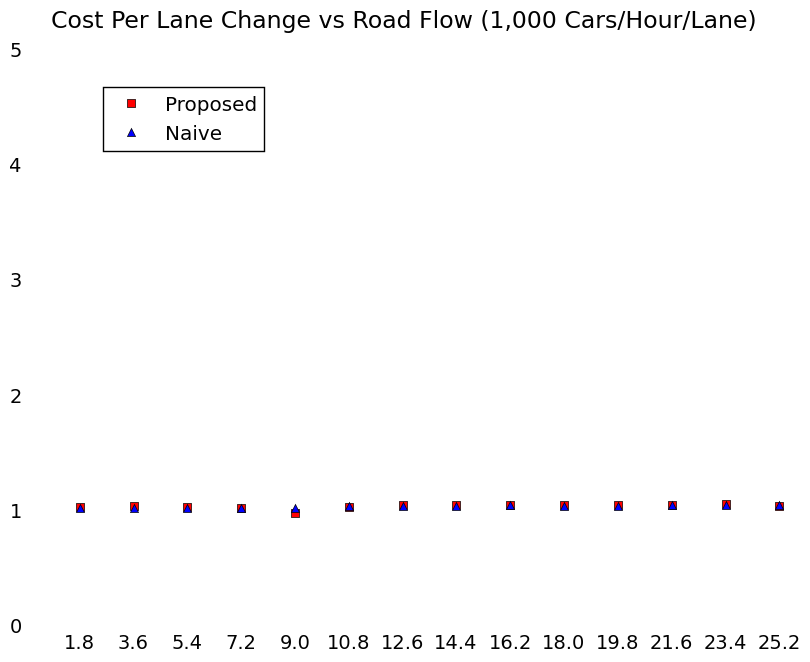
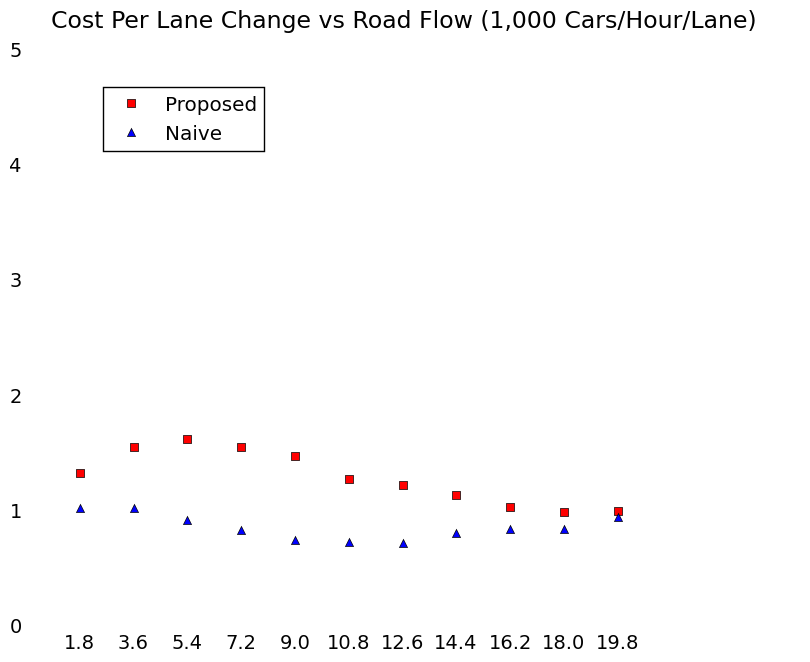
New data with fully random cars continuing. tests_far_linearCost.p is the 200 runs 0.5-5.5 data.

diff --git a/tests.py b/tests.py
@@ -8,13 +8,16 @@ from time import time
 from params import *
 
 
-def tests(myRoad):
+def noTime(myRoad):
     global stats
-    myRoad.baseCase = False
     params.turnTime = max([getTurnTime(vel) for vel in params.laneVels])
     stats.params = params
     stats.newTurn(params.turnTime)
     myRoad.updateRoad(params.turnTime)
+
+def tests(myRoad):
+    global stats
+    myRoad.baseCase = False
     when.When(myRoad)
     stats.carsRequestingLC[myRoad.turn] = len([car for car in myRoad.cars if car.position[1] != car.targetLane])
     how.How(myRoad)
@@ -41,10 +44,8 @@ def tests(myRoad):
    # print "Cars on road: " + str(len(myRoad.cars))
 
 def baseCaseTests(myRoad):
+    global stats
     myRoad.baseCase = True
-    stats.newTurn(params.turnTime)
-    stats.params = params
-    myRoad.updateRoad(params.turnTime)
     myRoad.cars = when.baseCaseWhen(myRoad.cars)
     stats.carsRequestingLC[myRoad.turn] = len([car for car in myRoad.cars if car.position[1] != car.targetLane])
     baseHow.baseCaseHow(myRoad)
@@ -109,11 +110,22 @@ def timer(f, *args):
     e = time()
     return e - s
 
+def oldTimeSim(f, numIters):
+    totalTime = 0
+    for i in range(numIters):
+        turn2 = timer(noTime, myRoad)
+        turn = timer(f, myRoad) + turn2
+        stats.turnTime[myRoad.turn] = turn
+        totalTime += turn
+        print str(turn) + " : " + str(totalTime)
+        print ''
+
 #maybe for final results have a "max road length" parameter to change and compare to find how well it scales. 
 #6km roads do X fast,  10km roads do X fast
 def timeSim(f ,numIters):
     totalTime = 0
     for i in range(numIters):
+        noTime(myRoad)
         turn = timer(f, myRoad)
         stats.turnTime[myRoad.turn] = turn
         totalTime += turn
@@ -129,7 +141,7 @@ def runBoth(numIters):
 def runSims(f, numIters):
     global myRoad
     simStats = Statistics()
-    for flow in [x * 0.5 for x in range (1,15)]:
+    for flow in [x * 0.5 for x in range (1,12)]:
         print 'flow: ' + str(flow)
         stats.reset()
         myRoad = road.Road()

diff --git a/road.py b/road.py
@@ -119,14 +119,16 @@ class Road:
         numNewCars = int(dt * params.percentContinuing * params.flow * params.numLanes)
         for i in range(numNewCars):
             exit = randint(0,len(params.exits)-1)
-            lane = self.getLane(exit)
+            lane = randint(0, params.numLanes-1)
             cell = randint(0, self.newCells[lane]-1)
             j = 0
             while not self.addToCell(Car(cell, lane, params.exits[exit]), self.lanes[lane]) and j < numNewCars * 3:
                 exit = randint(0,len(params.exits)-1)
                 cell = randint(0, self.newCells[lane]-1)
-                lane = self.getLane(exit,cell)
+                lane = randint(0, params.numLanes-1)
                 j += 1
+            if j >= numNewCars * 3:
+                print "j >= numNewCars * 3 in addContinuing"
     
     def addEnteringCars(self, dt):
         numNewCars = int(dt * (1 - params.percentContinuing) * params.flow * params.numLanes)
@@ -140,6 +142,8 @@ class Road:
                 exit = randint(entrance, len(params.exits)-1)
                 cell = self.getCellForEntering(entrance,dt)
                 i += 1
+            if i >= numNewCars * 3:
+                print "i >= numNewCars * 3 in addEntering"
     def clearCarData(self):
         for car in self.cars:
             car.accel = 0

diff --git a/plots.py b/plots.py
@@ -4,7 +4,7 @@ from tests import *
 #data frame
 testsNear = readFromFile("tests_far_linearCost_data.p")
 baseNear = readFromFile("baseCaseTests_far_linearCost_data.p")
-flows = [x * 0.5 for x in range(1,15)]
+flows = [x * 0.5 for x in range(1,12)]
 testColor = (0.5, 0.2, 0.2)
 baseColor = (0.2, 0.2, 0.5)
 numTurns = len(flows)
